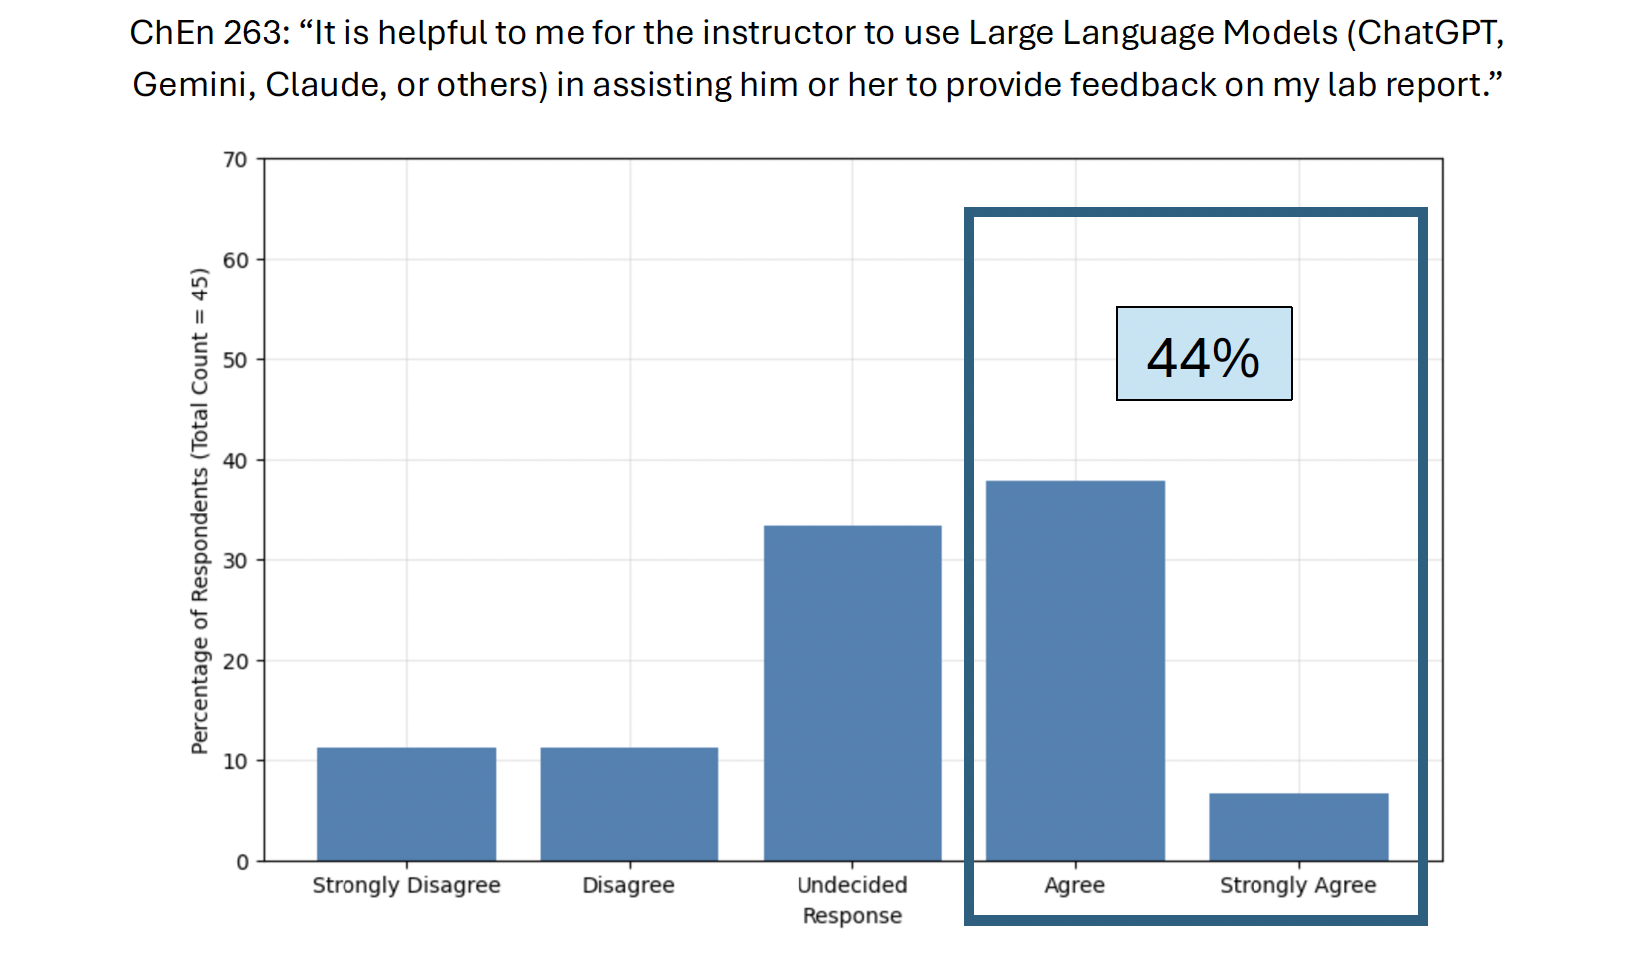
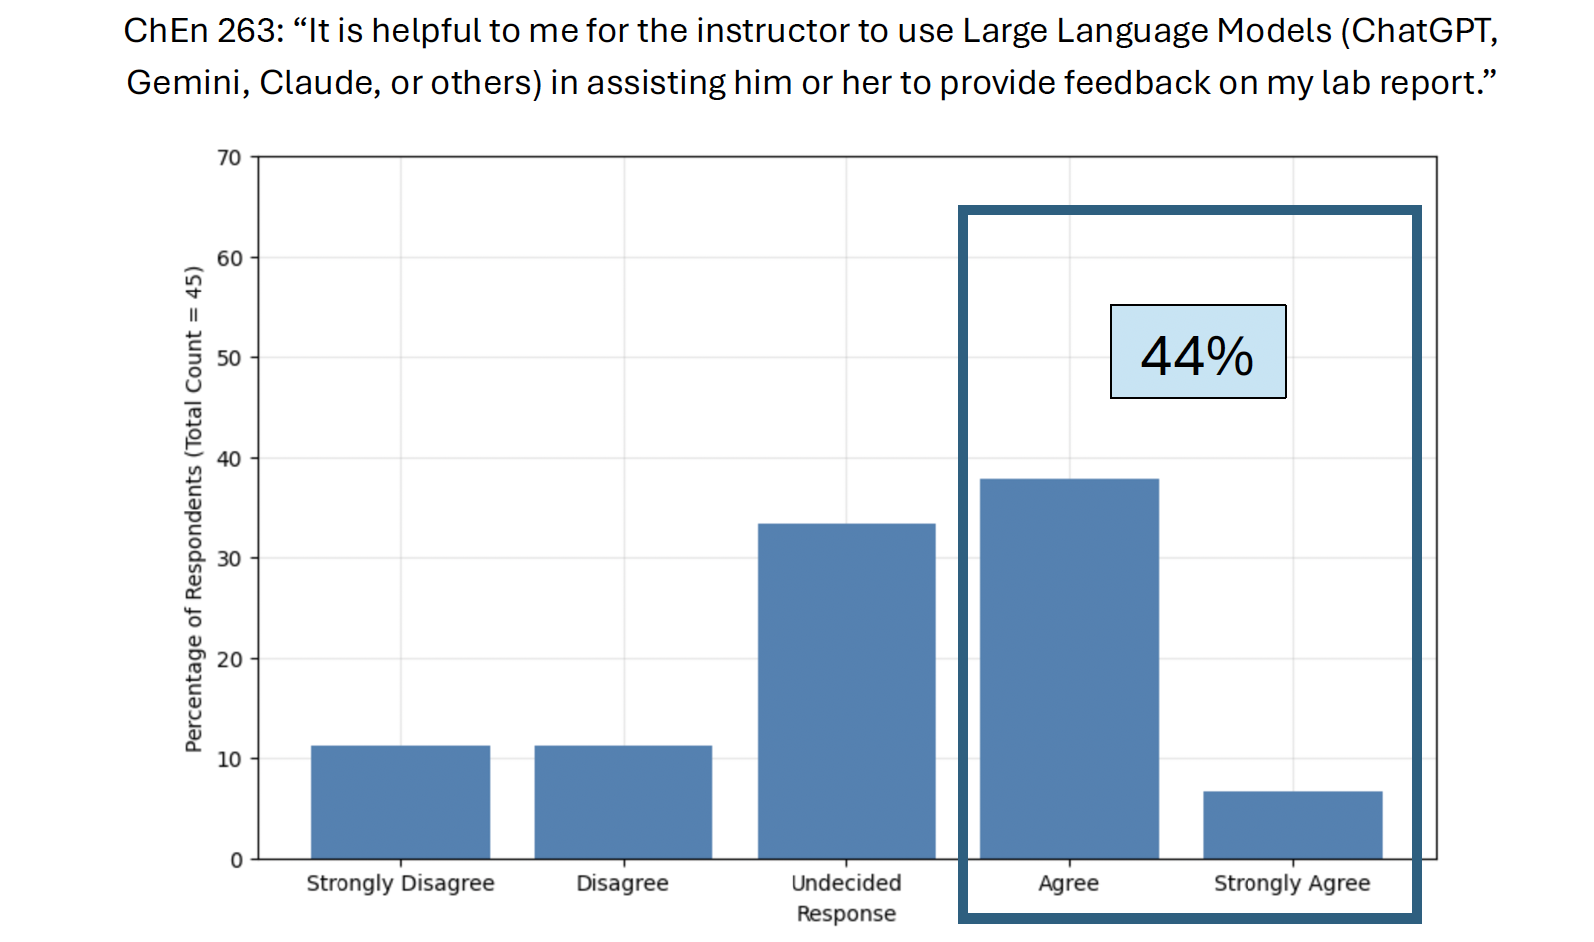
update

diff --git a/index.html b/index.html
@@ -367,13 +367,13 @@
 					</section> -->
 
 					<section data-transition="convex" data-background="#549e8d">
-						<p>80% agreed LLM's can be helpful to learning</p>
-						<img class="r-frame" style="background: rgba(255,255,255,0.1);" width="1000"  data-src="https://raw.githubusercontent.com/clint-bg/AITechnicalWriting/refs/heads/gh-pages/263Q2.png" alt="first question">
+						<p>A majority agreed LLM's can be helpful to learning</p>
+						<img class="r-frame" style="background: rgba(255,255,255,0.1);" width="900"  data-src="https://raw.githubusercontent.com/clint-bg/AITechnicalWriting/refs/heads/gh-pages/263Q2.png" alt="first question">
 					</section>
 
 					<section data-transition="convex" data-background="#549e8d">
-						<p>45% agreed LLM use by the instructor can be helpful to their learning</p>
-						<img class="r-frame" style="background: rgba(255,255,255,0.1);" width="1000"  data-src="https://raw.githubusercontent.com/clint-bg/AITechnicalWriting/refs/heads/gh-pages/263Q3.png" alt="first question">
+						<p>A minority agreed LLM use by the instructor can be helpful to their learning</p>
+						<img class="r-frame" style="background: rgba(255,255,255,0.1);" width="900"  data-src="https://raw.githubusercontent.com/clint-bg/AITechnicalWriting/refs/heads/gh-pages/263Q3.png" alt="first question">
 					</section>
 				</section>
 
